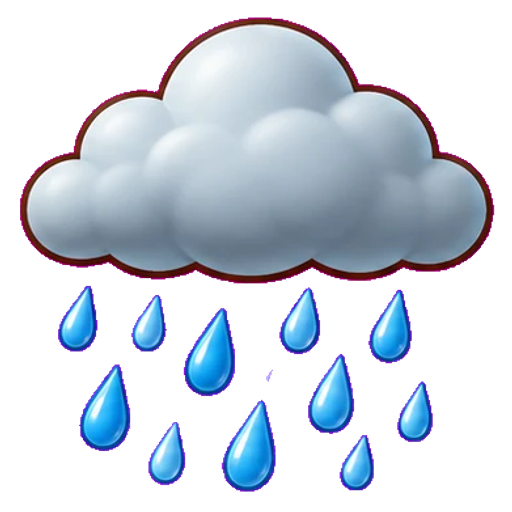
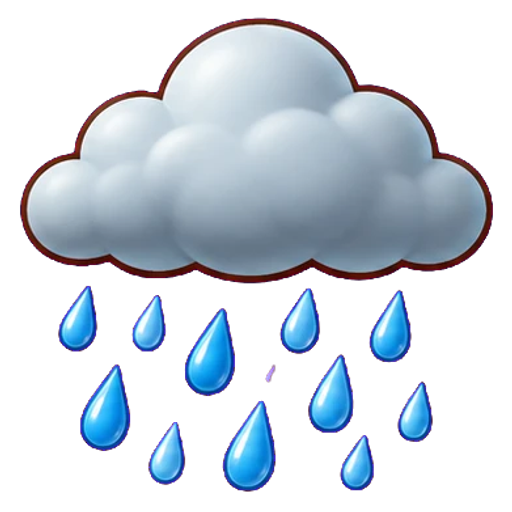
Import Science Lab's 8 effect scenes (batch 10)
Two items needed a redo after Adrian's feedback: the first pass drew a
glowing switch instead of a light bulb, and the popped balloon read as
a bitten fruit rather than a burst. A corrective 2-item mini-sheet
replaced both (sheet_effects_fix.png); the other 6 keep their first-pass
crops from sheet_effects.png.

Both fixed items hit the same largest-blob-only pitfall as batch 9's
rain: light_on's pink chroma-key-blend halo and popped_balloon's 5
separate rubber scraps needed a full-cell blob union rather than
picking just the single largest piece per cell. Also redid cause_rain
(batch 9) with the pipeline's actual keyed() chroma-key formula instead
of the cruder placeholder my last one-off fix used, which had left a
faint magenta fringe.

Claude-Session: https://claude.ai/code/session_01AJaJLdikv9f2zK3SzeokeT

diff --git a/tools/art-import/cut-sheets.js b/tools/art-import/cut-sheets.js
@@ -284,6 +284,27 @@ const SHEETS = {
     grid: { cols: 4, rows: 2 },
     outDir: 'sciencelab/out/causes', resDir: 'sciencelab', size: 512,
   },
+  // Cause and Effect's effect half, sprite key `sciencelab/effect_<id>`, same order as the causes
+  // above so each cause's correct answer lines up. Items 7-8 (light_on, popped_balloon) came back
+  // wrong on the first pass (a glowing switch instead of a bulb; a balloon that read as bitten fruit
+  // rather than burst) - see sciencelab_effects_fix below for the replacement pair; this entry's
+  // effect_light_on/effect_popped_balloon outputs get overwritten by that one.
+  sciencelab_effects: {
+    file: 'sheet_effects.png', dir: 'sciencelab/ai',
+    names: [
+      'effect_wet_ground', 'effect_broken_glass', 'effect_grown_plant', 'effect_flying_kite',
+      'effect_melted_icecream', 'effect_rolling_ball', 'effect_light_on', 'effect_popped_balloon',
+    ],
+    grid: { cols: 4, rows: 2 },
+    outDir: 'sciencelab/out/effects', resDir: 'sciencelab', size: 512,
+  },
+  // Corrective 2-item re-do of effect_light_on and effect_popped_balloon from the sheet above.
+  sciencelab_effects_fix: {
+    file: 'sheet_effects_fix.png', dir: 'sciencelab/ai',
+    names: ['effect_light_on', 'effect_popped_balloon'],
+    grid: { cols: 2, rows: 1 },
+    outDir: 'sciencelab/out/effects_fix', resDir: 'sciencelab', size: 512,
+  },
 };
 
 // bg 'magenta' (default) chroma-keys a solid #ff00ff background to transparent; bg 'alpha' trusts a
